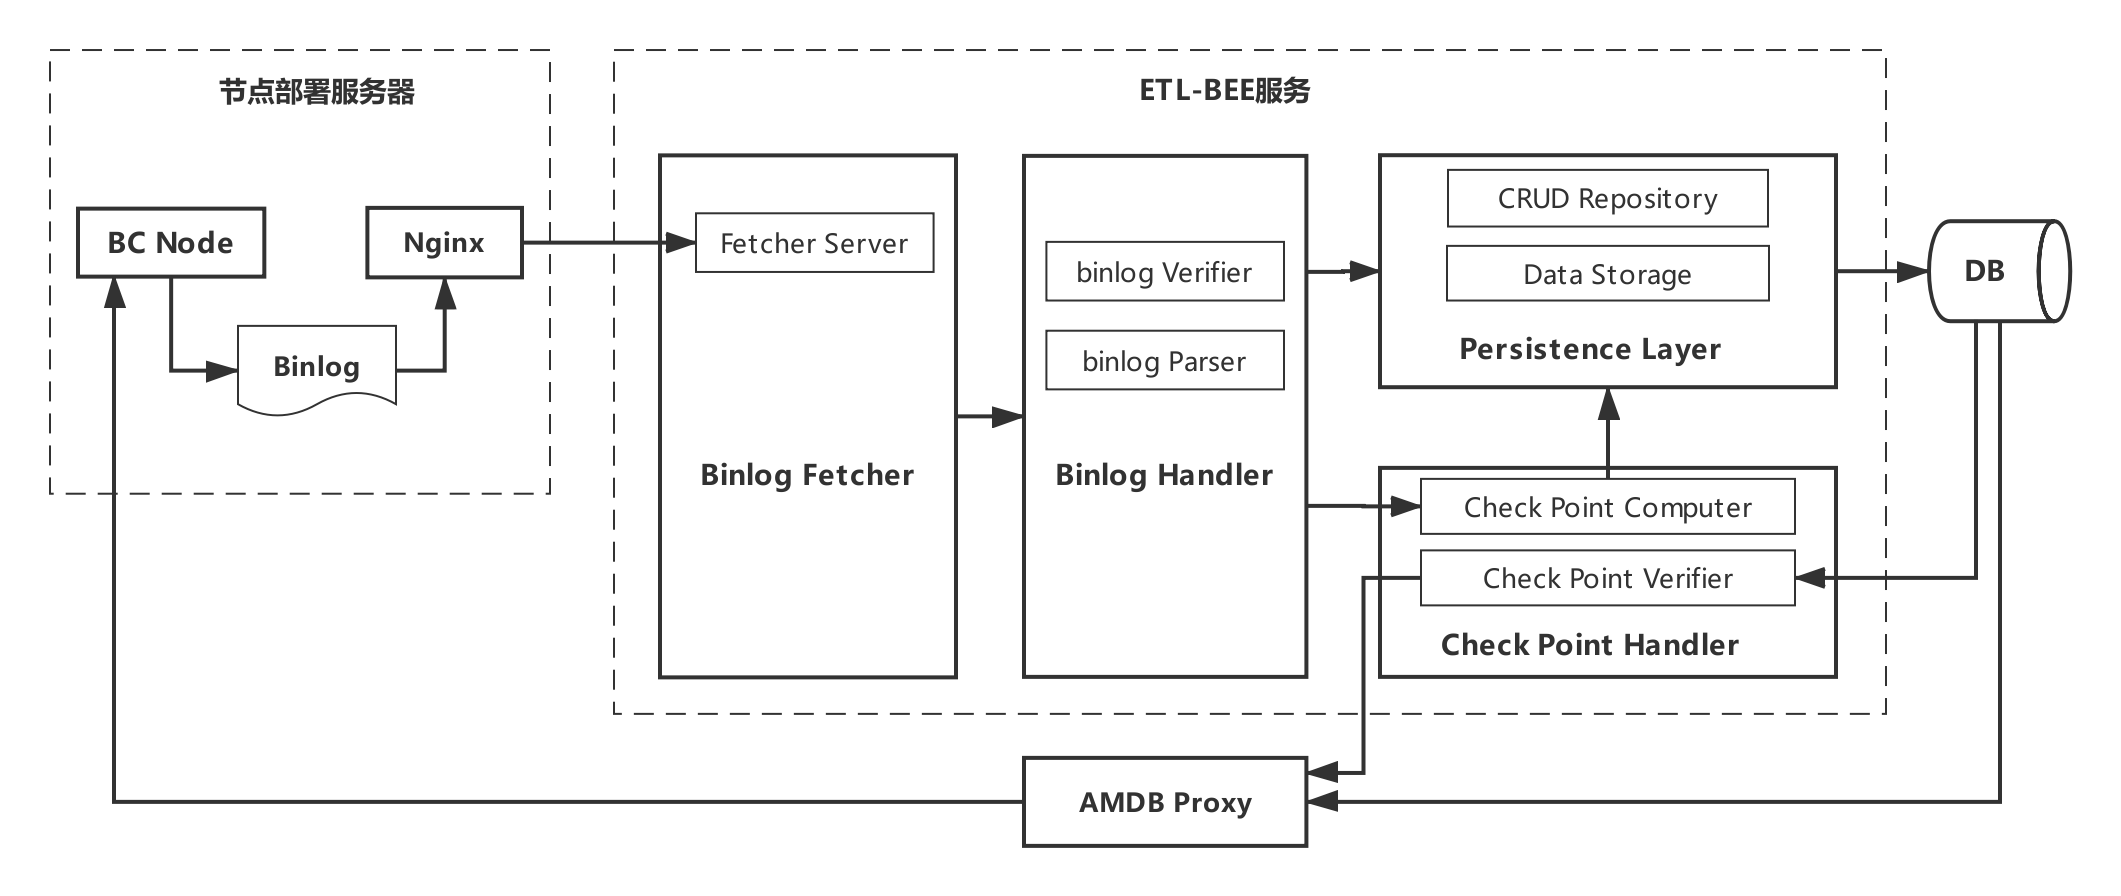
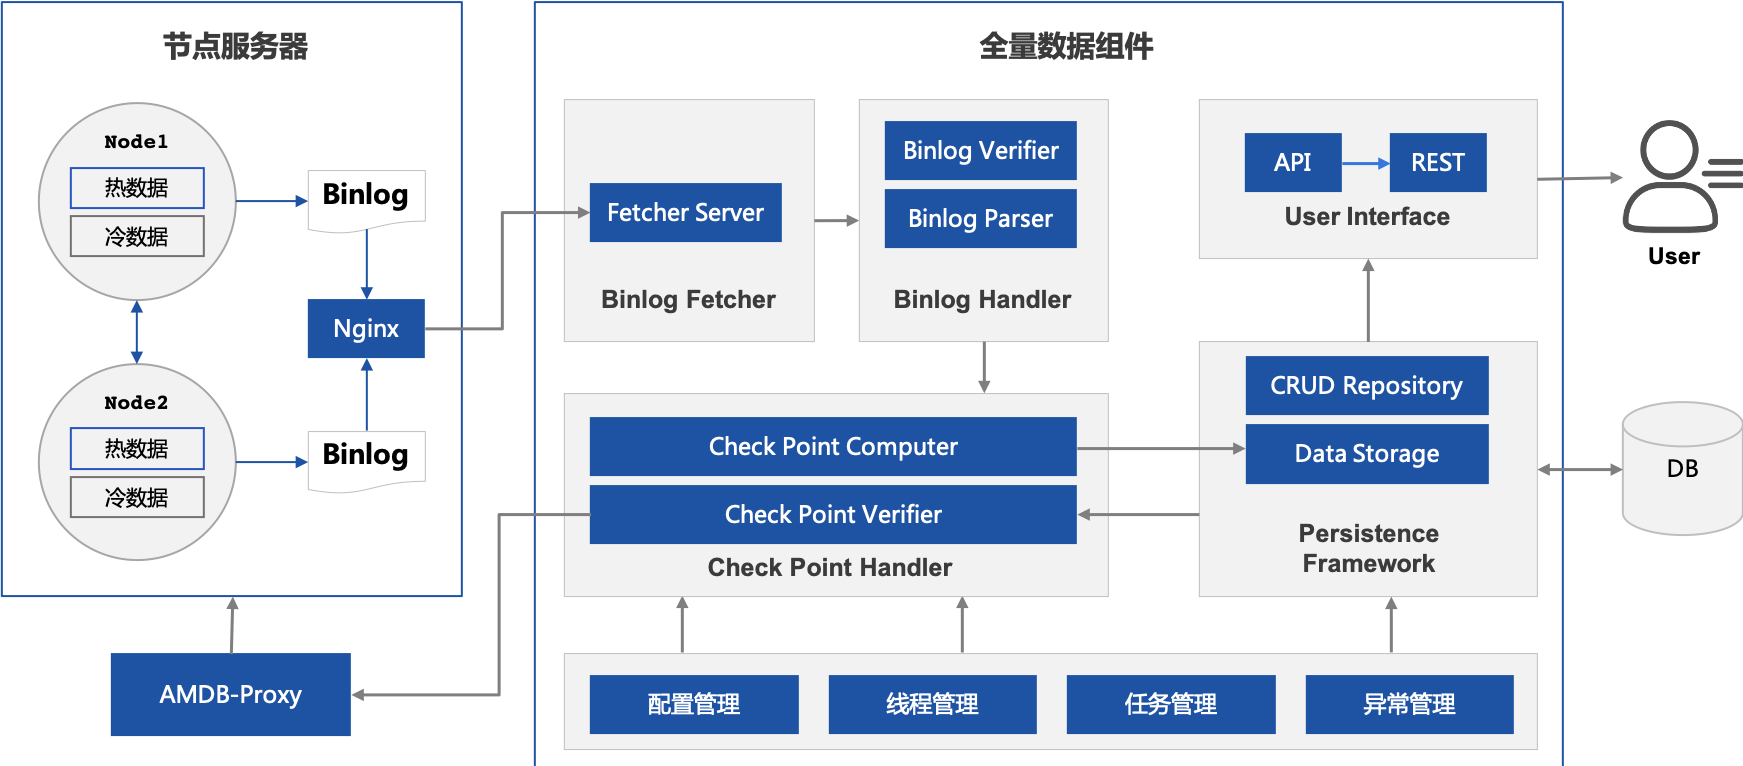
.

diff --git a/docs/WeBase-ETL-Bee/design.md b/docs/WeBase-ETL-Bee/design.md
@@ -6,13 +6,30 @@
 
 整个体系分为如下部分：
 
-- FISCO BCOS节点：该节点接入到区块链网络中，并将状态变化持续写入到binlog文件中
-- Nginx：提供端口映射，使外界可以通过该端口访问到binlog文件
-- 下载模块：通过Nginx轮询最新的binlog下载到本地
-- 解析模块：解析binlog日志，解析出状态变更信息
-- 验证模块：校验binlog中的数据
-- 持久化模块：将binlog中的变动应用到数据库中，使得数据库成为节点的全量备份。并通过checkpoint进行增信。
-- 清理模块：将已同步完的日志进行清理。
+### 1.1. 节点服务器
+
+节点服务器相关的组件包括：
+
+#### 1）FISCO BCOS节点
+
+FISCO BCOS节点的账本按照mysql存储。每次新增加一个区块，都会为mysql里添加一些数据。mysql表的变化会被记录到binlog中。binlog目录被放在data/groupX/BinaryLogs目录下，x表示群组号：
+
+#### 2）Nginx
+FISCO BCOS节点本身并不会暴露binlog，如果希望外界读取到binlog，需要借助nginx。通过在nginx中配置端口和binlog目录的映射，外界就可以通过该端口访问到binlogs。
+### 1.2. 全量数据组件
+
+全量数据服务自身由如下几个部分构成：
+#### 1）下载服务Fetcher Server
+下载服务会持续轮询nginx端口，下载最新binlog日志到本地目录中。
+#### 2）解析服务Binlog Parser
+解析服务持续读取未解析binlog日志，将每个区块对应的mysql变动条目都解析出来。
+#### 3）校验服务Binlog verifier
+校验服务用于保证数据的可信性。校验服务会从其他节点拉取binlog进行对比，保证内容的一致性。同时，还会对数据本身进行校验，例如对于区块哈希校验、区块签名校验、交易根校验等。
+#### 4）存储服务Data Storage
+存储服务按照binlog的变动，会将其内容应用到数据库中，使数据库形成节点状态的一致、全量的冷数据库。
+#### 5）检查点服务Checkpoint Handler
+每一个区块数据的入库存储，都会生成一个检查点数据，该检查点包含了前置所有区块数据的哈希，用于额外对存储进行增信。
+
 
 
 ## 2. Binlog结构
